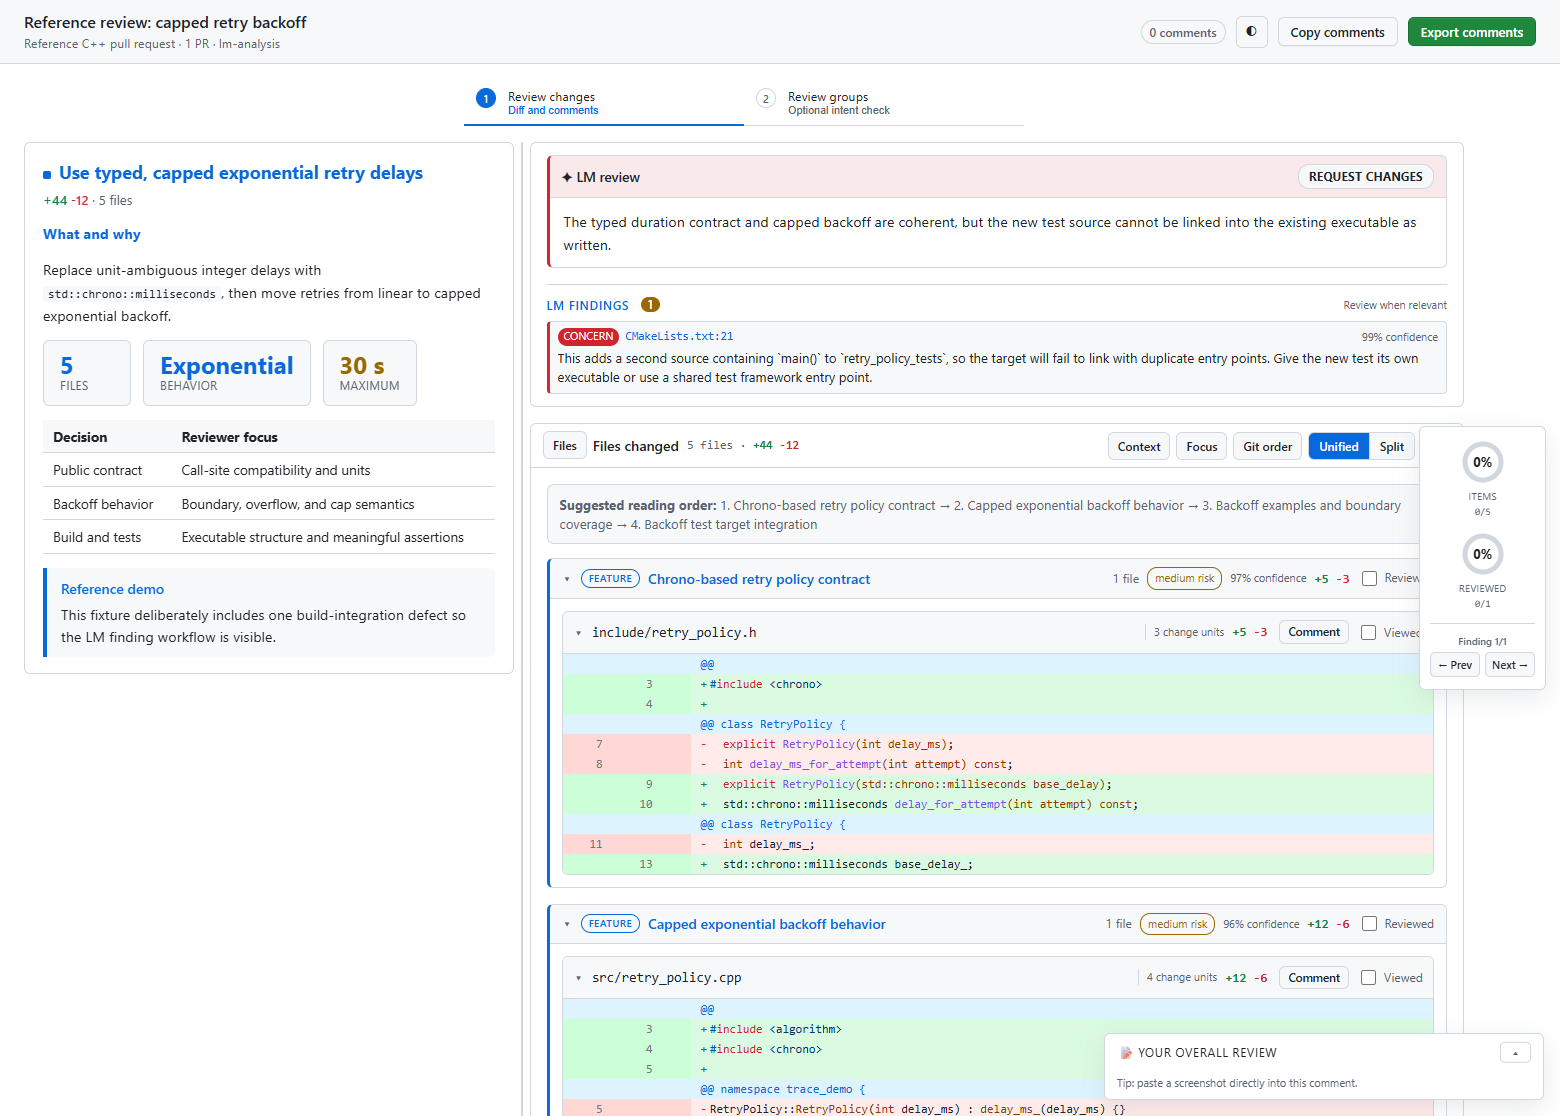
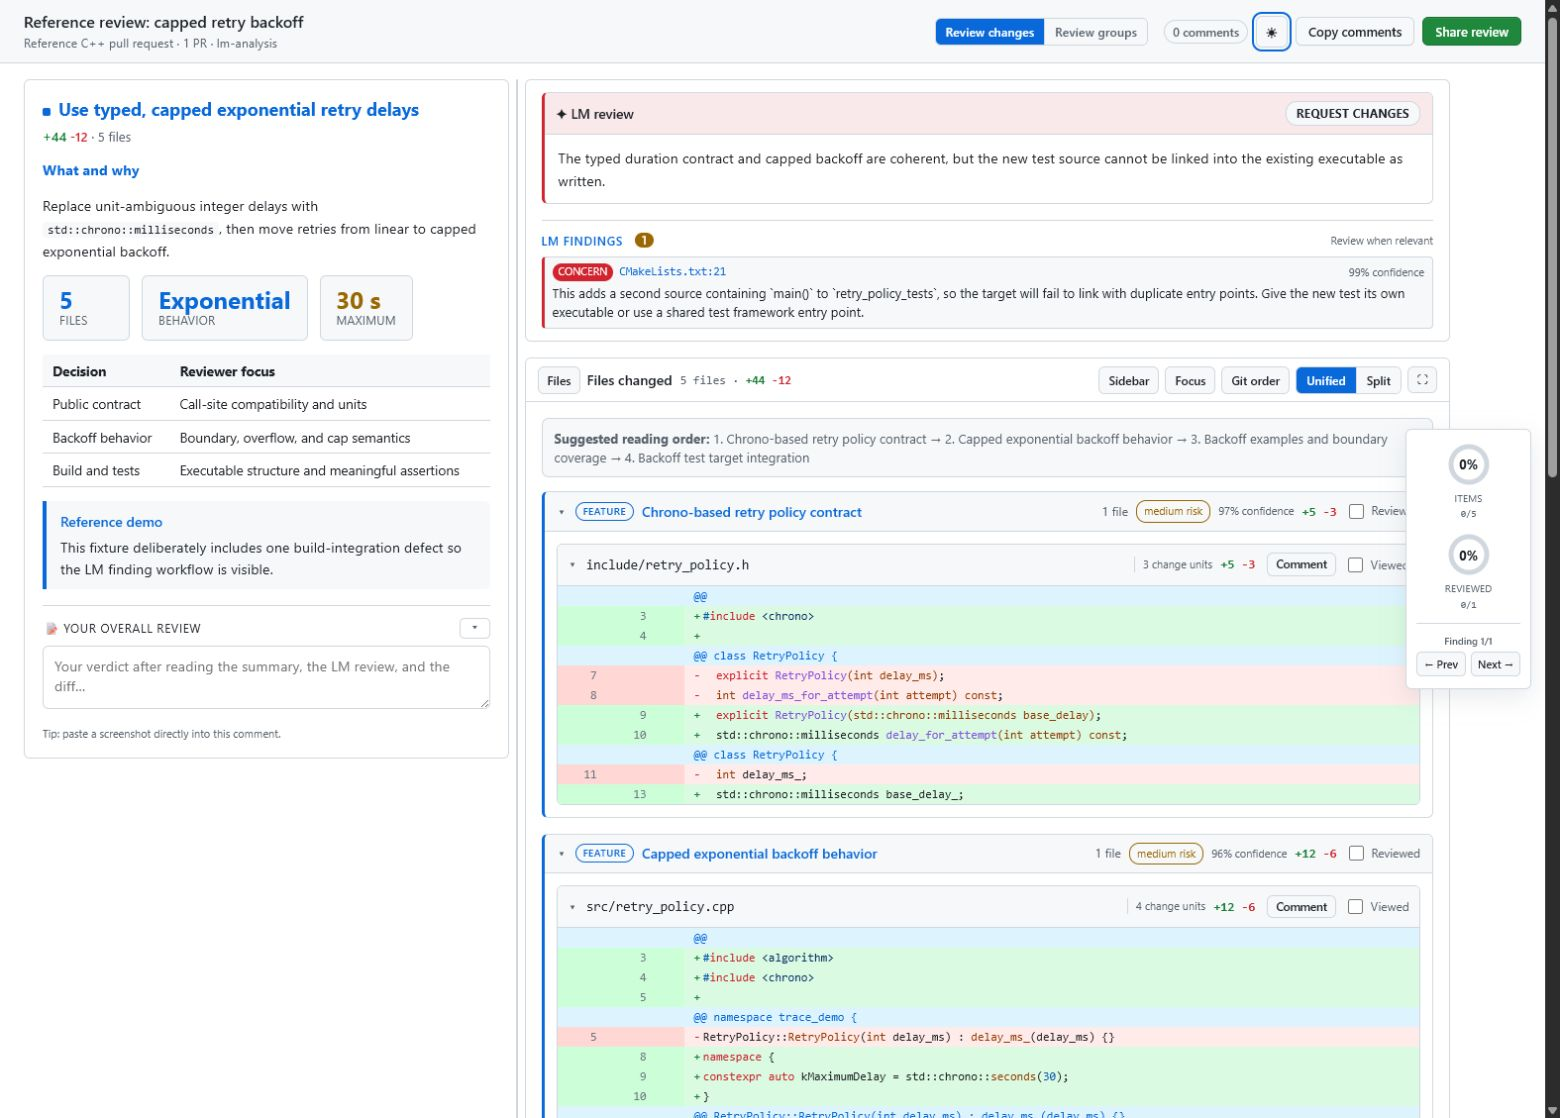
Refresh README and review shortcuts

Changed region(s): [[0.0, 0.0, 1.0, 1.0], [0.0, 0.0, 0.2154, 0.0609]]

diff --git a/test/skill-bundle.test.ts b/test/skill-bundle.test.ts
@@ -30,6 +30,15 @@ test("checked-in installable skill distribution matches the release inputs", () 
   });
 });
 
+test("skill documents composable LM and pull-request shortcuts", () => {
+  const skill = fs.readFileSync(path.join(root, "SKILL.source.md"), "utf8");
+
+  assert.match(skill, /`lm`, `ai`, and `lm-analysis` select LM analysis/);
+  assert.match(skill, /`pr <number>` and `pr #<number>` select that pull request/);
+  assert.match(skill, /`lm pr 8`, `pr 8 ai`, and `pr #8 lm`/);
+  assert.match(skill, /write `"mode": "lm-analysis"` and pass only\s+the number to `--pr`/);
+});
+
 test("minimal skill bundle is complete, runnable, and excludes repository-only files", (t) => {
   const outDir = fs.mkdtempSync(path.join(os.tmpdir(), "trace-review-bundle-test-"));
   t.after(() => fs.rmSync(outDir, { recursive: true, force: true }));

diff --git a/README.md b/README.md
@@ -1,12 +1,10 @@
 # Trace Review
 
-> **Review more code with fewer LM tokens.**
+> **Review local or pull-request changes in a focused HTML interface.**
 
-Trace Review turns a working-tree diff, branch range, or pull request into a self-contained
-interactive HTML review.
+Trace Review turns a working-tree diff, branch range, or pull request into a self-contained interactive review page.
 
-Local scripts collect facts, parse diffs, validate LM output, and build the interface. The LM
-receives compact evidence and writes only the semantic result needed by the selected review mode.
+The language model does not generate the HTML document. It creates structured review content when requested; local scripts validate it and combine it with the parsed diff and a checked-in template.
 
 <picture>
   <source media="(prefers-color-scheme: dark)" srcset="docs/assets/review-interface-dark.png">
@@ -17,51 +15,28 @@ receives compact evidence and writes only the semantic result needed by the sele
 ## How it works
 
 ```text
-git diff
-  → deterministic context and candidate groups
-  → compact LM grouping or analysis result
-  → validated groups and review spec
-  → local review.html
+local diff or pull request
+  → scripts collect and parse the changes
+  → optional LM review or grouping
+  → validated review specification
+  → scripts + template build review.html
 ```
 
-The patch stays on disk instead of being reproduced in the conversation. Every mode uses the same
-GitHub-inspired light/dark interface, diff controls, comments, review progress,
-Markdown export, and optional confirmed publication as one native GitHub review.
+The result is a portable local page with light and dark themes, diff controls, review progress, comments, Markdown export, and optional confirmed publication as a native GitHub review.
 
-| Mode          | LM usage                                           |
-| ------------- | -------------------------------------------------- |
-| `workspace`   | No automatic findings                              |
-| `lm-analysis` | Sparse, budgeted findings from compact facts       |
-| `deep-audit`  | Broader analysis for explicit or high-risk reviews |
+| Mode          | Review behavior                               |
+| ------------- | --------------------------------------------- |
+| `workspace`   | Interactive diff without automatic findings   |
+| `lm-analysis` | Focused findings added to the review page      |
+| `deep-audit`  | Broader analysis for high-risk changes         |
 
-## Proof
+## Example
 
-The reproducible [C++ reference review](examples/cpp-reference/README.md) includes the patch,
-deterministic candidates, LM output, validated groups, and final review spec.
-
-For example, the LM-generated [`grouping-result.json`](examples/cpp-reference/grouping-result.json)
-contains:
-
-```json
-{
-  "title": "Capped exponential backoff behavior",
-  "intent": "Review the exponential delay calculation and its 30-second ceiling as one behavioral decision.",
-  "confidence": 0.96,
-  "changeIds": [
-    "src/retry_policy.cpp#h0",
-    "src/retry_policy.cpp#h1",
-    "src/retry_policy.cpp#h2",
-    "src/retry_policy.cpp#h3"
-  ]
-}
-```
-
-Use `--metrics-out .review/metrics.json` to estimate spec tokens and avoided patch tokens. See
-[the metrics contract](docs/REAL-PR-METRICS.md).
+The reproducible [C++ reference review](examples/cpp-reference/README.md) includes its patch, model output, validated groups, and final review specification.
 
 ## Install
 
-Requires Node 22+, Git, and optionally GitHub CLI for pull-request context.
+Requires Node 22+, Git, and optionally GitHub CLI for pull-request context and native review publishing.
 
 Install globally and choose any detected coding agent:
 
@@ -75,37 +50,23 @@ For a non-interactive Codex installation:
 npx skills add kmarchais/trace-review --skill trace-review --global --agent codex --yes
 ```
 
-GitHub CLI provides an equivalent installer:
-
-```bash
-gh skill install kmarchais/trace-review skills/trace-review/SKILL.md --scope user --agent codex
-```
-
-Both installers select the correct project or user directory for the requested agent. As a manual
-fallback, download
-[`trace-review-skill.zip`](https://github.com/kmarchais/trace-review/releases/latest/download/trace-review-skill.zip)
-and extract it into your agent's skills directory. Every installation contains only compiled
-runtime scripts, the template, schema, operational references, license, and a compact example.
+The installer selects the correct directory for the requested coding agent. As a manual fallback, download [`trace-review-skill.zip`](https://github.com/kmarchais/trace-review/releases/latest/download/trace-review-skill.zip).
 
 ## Use
 
 - `/trace-review` opens the workspace without automatic LM findings.
-- `/trace-review lm-analysis` adds focused LM findings.
-- Ask for a **deep audit** when broader high-risk analysis is warranted.
-- Or ask your agent to review a branch or pull request with Trace Review.
-- For a GitHub-backed review, use **Share review → GitHub review** to preview
-  native threads versus summary fallbacks, download the plan, and run the
-  packaged publisher. It rechecks authentication and the PR head and requires
-  confirmation before publishing.
+- `/trace-review lm` or `/trace-review ai` adds focused LM findings.
+- `/trace-review pr 8` reviews pull request #8 in the current repository.
+- `/trace-review lm pr 8` combines explicit PR selection with LM findings.
+- Ask for a **deep audit** for broader analysis of high-risk changes.
+- Or ask your coding agent to review a branch or pull request with Trace Review.
+- For a GitHub-backed review, use **Share review → GitHub review** to preview native threads and summary fallbacks before publishing.
 
-See the installable [SKILL.md](skills/trace-review/SKILL.md) for the workflow,
-[REVIEW-SPEC.md](REVIEW-SPEC.md) for the schema, and
-[docs/LIMITATIONS.md](docs/LIMITATIONS.md) for operational boundaries.
+See the installable [SKILL.md](skills/trace-review/SKILL.md), the [review specification](REVIEW-SPEC.md), and the [operational boundaries](docs/LIMITATIONS.md).
 
 ## Develop
 
-The repository uses strict TypeScript, Bun, ESLint, and Prettier. The release bundle contains
-compiled, Node 22-compatible JavaScript, so installing the skill does not require Bun.
+The repository uses strict TypeScript, Bun, ESLint, and Prettier. The release bundle contains compiled Node 22-compatible JavaScript, so installing the skill does not require Bun.
 
 ```bash
 bun install
@@ -114,5 +75,4 @@ bun run check
 bun run bundle:skill
 ```
 
-`skills/trace-review/` is the checked-in, cross-agent installation source. `bun run check` rejects
-it when it no longer matches the authored files or compiled runtime.
+`skills/trace-review/` is the checked-in cross-agent installation source. `bun run check` rejects it when it no longer matches the authored files or compiled runtime.

diff --git a/SKILL.source.md b/SKILL.source.md
@@ -25,13 +25,19 @@ only author a short JSON spec.
 | **LM analysis** (on request) | Set `"mode": "lm-analysis"` and emit a `review` object for every PR. | Adds sparse language-model findings: a global assessment plus severity-tagged, line-anchored comments. |
 | **Deep audit** (explicit/high-risk only) | Set `"mode": "deep-audit"` after the user requests or accepts deeper analysis. | Uses the same finding contract after broader dependency, failure-mode, and test analysis. |
 
-Default is **workspace**. Add LM analysis when the user invokes
-`/trace-review lm-analysis`, or asks for it in words ("review this and add your
-findings").
-Invoking `/trace-review` (or `… no-review`) stays in workspace mode
-— don't spend tokens analysing the diff unless asked. Deep audit is never
-silently selected. See [REVIEW-SPEC.md](REVIEW-SPEC.md) for the versioned
-contract.
+Default is **workspace**. Normalize invocation shortcuts before starting:
+
+- `lm`, `ai`, and `lm-analysis` select LM analysis.
+- `pr <number>` and `pr #<number>` select that pull request in the current
+  repository.
+- Shortcuts compose in any order: `lm pr 8`, `pr 8 ai`, and `pr #8 lm` all
+  select PR 8 with LM analysis.
+
+Keep canonical values internally: write `"mode": "lm-analysis"` and pass only
+the number to `--pr`. A PR shortcut without `lm` or `ai` stays in workspace
+mode. Invoking `/trace-review` (or `… no-review`) also stays in workspace mode.
+Deep audit is never silently selected. See
+[REVIEW-SPEC.md](REVIEW-SPEC.md) for the versioned contract.
 
 Paths below are relative to the installed `trace-review/` skill directory. Run
 commands from any working directory; pass absolute paths for
@@ -76,6 +82,10 @@ node <skill-dir>/scripts/collect-pr-context.mjs --pr https://github.com/org/repo
 # Intentionally disable remote context
 node <skill-dir>/scripts/collect-pr-context.mjs --no-remote --base main
 ```
+
+For `/trace-review pr 8`, normalize the user-facing selector and run the
+collector with `--pr 8`. Pull-request numbers are resolved against the
+repository selected by the current working directory or `--repo`.
 
 Use `--repo <path>` when the command is not run inside the target repository,
 and `--out` / `--diff-out` to choose other output locations. In automatic mode,

diff --git a/skills/trace-review/SKILL.md b/skills/trace-review/SKILL.md
@@ -25,13 +25,19 @@ only author a short JSON spec.
 | **LM analysis** (on request) | Set `"mode": "lm-analysis"` and emit a `review` object for every PR. | Adds sparse language-model findings: a global assessment plus severity-tagged, line-anchored comments. |
 | **Deep audit** (explicit/high-risk only) | Set `"mode": "deep-audit"` after the user requests or accepts deeper analysis. | Uses the same finding contract after broader dependency, failure-mode, and test analysis. |
 
-Default is **workspace**. Add LM analysis when the user invokes
-`/trace-review lm-analysis`, or asks for it in words ("review this and add your
-findings").
-Invoking `/trace-review` (or `… no-review`) stays in workspace mode
-— don't spend tokens analysing the diff unless asked. Deep audit is never
-silently selected. See [REVIEW-SPEC.md](REVIEW-SPEC.md) for the versioned
-contract.
+Default is **workspace**. Normalize invocation shortcuts before starting:
+
+- `lm`, `ai`, and `lm-analysis` select LM analysis.
+- `pr <number>` and `pr #<number>` select that pull request in the current
+  repository.
+- Shortcuts compose in any order: `lm pr 8`, `pr 8 ai`, and `pr #8 lm` all
+  select PR 8 with LM analysis.
+
+Keep canonical values internally: write `"mode": "lm-analysis"` and pass only
+the number to `--pr`. A PR shortcut without `lm` or `ai` stays in workspace
+mode. Invoking `/trace-review` (or `… no-review`) also stays in workspace mode.
+Deep audit is never silently selected. See
+[REVIEW-SPEC.md](REVIEW-SPEC.md) for the versioned contract.
 
 Paths below are relative to the installed `trace-review/` skill directory. Run
 commands from any working directory; pass absolute paths for
@@ -76,6 +82,10 @@ node <skill-dir>/scripts/collect-pr-context.mjs --pr https://github.com/org/repo
 # Intentionally disable remote context
 node <skill-dir>/scripts/collect-pr-context.mjs --no-remote --base main
 ```
+
+For `/trace-review pr 8`, normalize the user-facing selector and run the
+collector with `--pr 8`. Pull-request numbers are resolved against the
+repository selected by the current working directory or `--repo`.
 
 Use `--repo <path>` when the command is not run inside the target repository,
 and `--out` / `--diff-out` to choose other output locations. In automatic mode,
